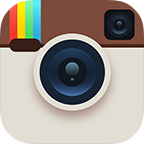
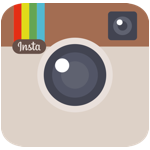
intial v3 commit
- [x] Add `getMediaShortcode()` endpoint
- [x] Update Instagram icon for V3

diff --git a/src/Instagram.php b/src/Instagram.php
@@ -11,7 +11,7 @@ namespace MetzWeb\Instagram;
  * @author Christian Metz
  * @since 30.10.2011
  * @copyright Christian Metz - MetzWeb Networks 2011-2014
- * @version 2.2
+ * @version 3.0 alpha
  * @license BSD http://www.opensource.org/licenses/bsd-license.php
  */
 class Instagram {
@@ -239,6 +239,16 @@ class Instagram {
   }
 
   /**
+   * Get media by its shortcode
+   *
+   * @param string $shortcode             Instagram media shortcode
+   * @return mixed
+   */
+  public function getMediaShortcode($shortcode) {
+    return $this->_makeCall('media/shortcode/' . $shortcode);
+  }
+
+  /**
    * Get the most popular media
    *
    * @return mixed
@@ -460,6 +470,7 @@ class Instagram {
     curl_setopt($ch, CURLOPT_URL, $apiCall);
     curl_setopt($ch, CURLOPT_HTTPHEADER, $headerData);
     curl_setopt($ch, CURLOPT_CONNECTTIMEOUT, 20);
+    curl_setopt($ch, CURLOPT_HEADER, true);
     curl_setopt($ch, CURLOPT_RETURNTRANSFER, true);
     curl_setopt($ch, CURLOPT_SSL_VERIFYPEER, false);
 
@@ -470,7 +481,12 @@ class Instagram {
       curl_setopt($ch, CURLOPT_CUSTOMREQUEST, 'DELETE');
     }
 
-    $jsonData = curl_exec($ch);
+    // execute API request
+    $response = curl_exec($ch);
+
+    // split header from JSON data and assign each to a variable
+    list($headerContent, $jsonData) = explode("\r\n\r\n", $response, 2);
+
     if (false === $jsonData) {
       throw new \Exception("Error: _makeCall() - cURL error: " . curl_error($ch));
     }
@@ -517,6 +533,30 @@ class Instagram {
   }
 
   /**
+   * Read header content in an array
+   *
+   * @param string $headerContent          HTTP response header
+   * @return array
+   */
+  private function _processHeaders($headerContent) {
+    $headers = array();
+
+    // iterate over the header string line by line
+    foreach (explode("\r\n", $headerContent) as $i => $line) {
+      if ($i === 0) {
+        // the first line contains the HTTP response code
+        $headers['http_code'] = $line;
+      } else {
+        // split headers into key (name) and value
+        list($key, $value) = explode(': ', $line);
+        $headers[$key] = $value;
+      }
+    }
+
+    return $headers;
+  }
+
+  /**
    * Access Token Setter
    *
    * @param object|string $data
@@ -558,7 +598,7 @@ class Instagram {
   /**
    * API Secret Setter
    *
-   * @param string $apiSecret 
+   * @param string $apiSecret
    * @return void
    */
   public function setApiSecret($apiSecret) {

diff --git a/README.md b/README.md
@@ -1,4 +1,10 @@
-# ![Image](example/assets/instagram.png) Instagram PHP API V2
+# ![Image](example/assets/instagram.png) Instagram PHP API V3
+
+---
+
+**Caution:** this is the development branch for the upcoming version 3
+
+---
 
 ## About
 
@@ -202,6 +208,7 @@ Please note that the `modifyRelationship()` method requires the `relationships` 
 **Public methods**
 
 - `getMedia($id)`
+- `getMediaShortcode($shortcode)`
 - `getPopularMedia()`
 - `searchMedia($lat, $lng, <$distance>, <$minTimestamp>, <$maxTimestamp>)`
     - `$lat` and `$lng` are coordinates and have to be floats like: `48.145441892290336`,`11.568603515625`
@@ -352,7 +359,7 @@ Iteration with `do-while` loop.
 
 This example project, located in the `example/` folder, helps you to get started.
 The code is well documented and takes you through all required steps of the OAuth2 process.
-Credit for the awesome Instagram icons goes to [Ricardo de Zoete Pro](http://dribbble.com/RZDESIGN).
+Credit for the awesome Instagram icons goes to [mauroxanish](http://mauroxanish.deviantart.com).
 
 #### More examples and tutorials:
 
@@ -368,7 +375,19 @@ Credit for the awesome Instagram icons goes to [Ricardo de Zoete Pro](http://dri
 
 ## History
 
-> Version 3.0 is in development and includes support for real-time subscriptions.
+**Instagram 3.0 alpha - 08/11/2014**
+
+> Preperation for the V3 release.
+
+- [x] Add `getMediaShortcode()` endpoint
+- [x] Update Instagram icon for V3
+- [ ] Real-time subscriptions
+- [ ] More flexible requests (method params)
+- [ ] Fix broken private-profile access
+- [ ] New fancy example app
+- [ ] Update pagination
+- [ ] Update documentation
+	- [ ] Remove response wiki in favor of Instagram docs
 
 **Instagram 2.2 - 04/10/2014**
 

diff --git a/example/README.md b/example/README.md
@@ -38,4 +38,4 @@ If you've done improvements or added some fancy features, please share them and 
 
 ---
 
-Credit for the awesome Instagram icons goes to [Ricardo de Zoete Pro](http://dribbble.com/RZDESIGN).
+Credit for the awesome Instagram icons goes to [mauroxanish](http://mauroxanish.deviantart.com).
